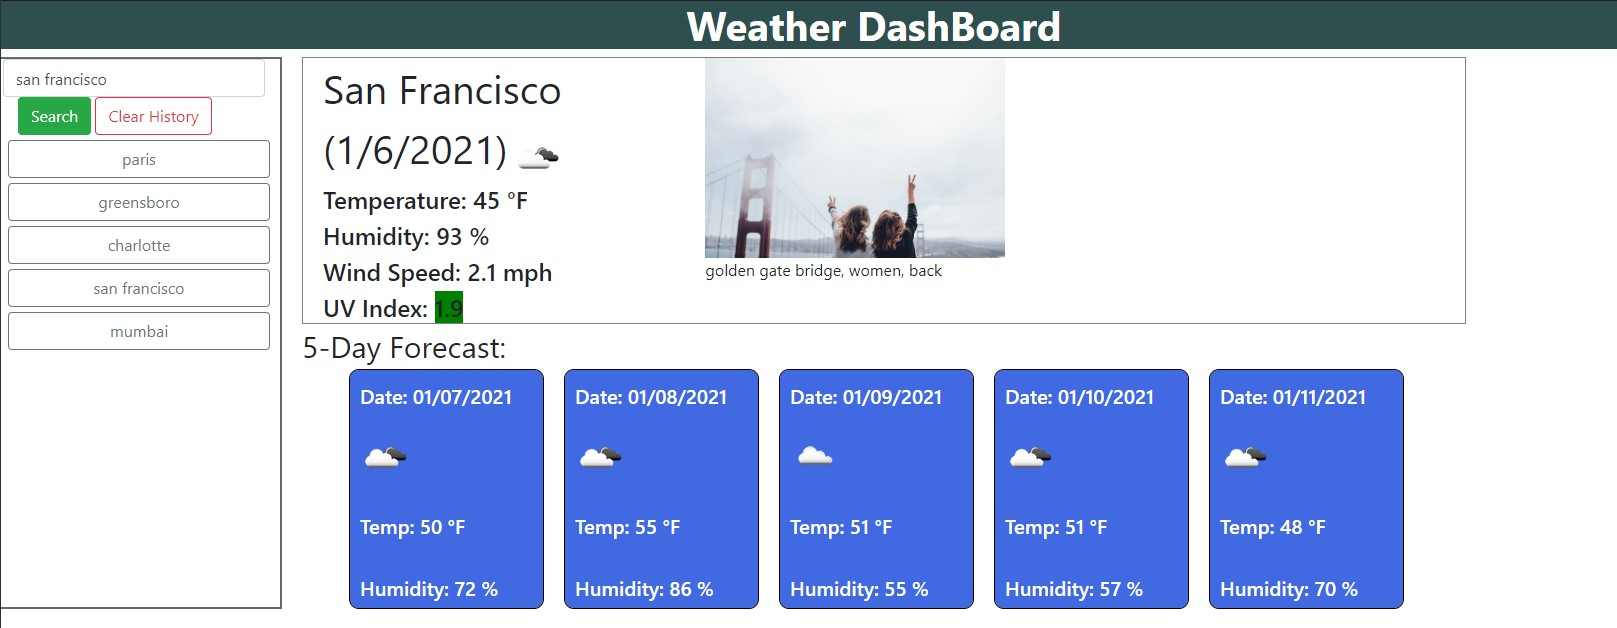
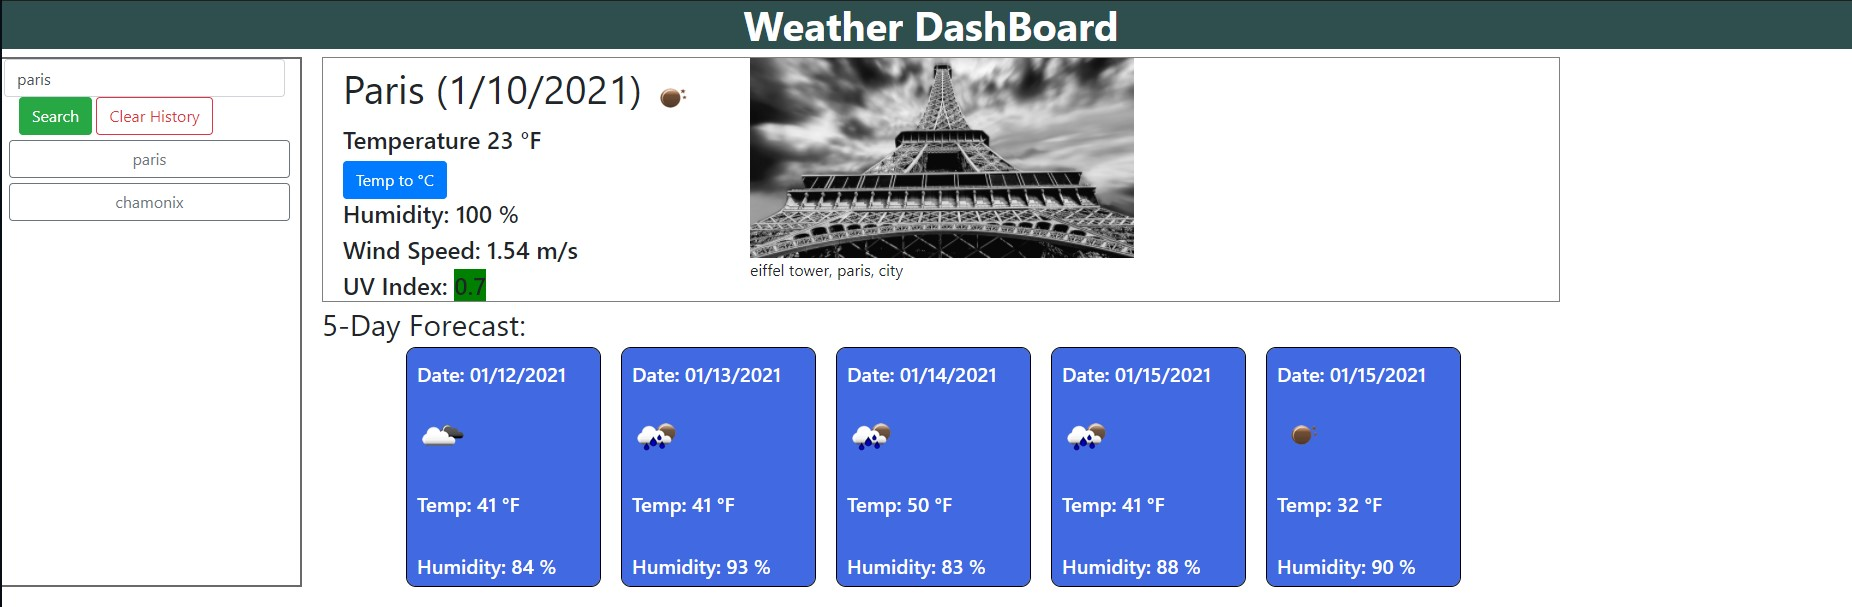
adding Temperature conversion button

Changed region(s): [[0.0, 0.0, 1.0, 0.9786], [0.0, 0.9489, 0.1855, 0.9786]]

diff --git a/assets/script/script.js b/assets/script/script.js
@@ -37,6 +37,7 @@ $(document).ready(function() {
             }).then(function(reponse){
 
                 // calling function to update the current city weather
+                // console.log("current: "+reponse);
                 updateCurrent(reponse);
 
                 //get a random picture of the city
@@ -132,13 +133,55 @@ $(document).ready(function() {
     };
 
     function KtoF(Kdegre){
-        var tempC=Kdegre - 273;
+        var tempC=Kdegre - 273.15;
         var tempF=Math.floor(tempC * (9/5) + 32);
         return tempF;
     };
 
+    function FtoC(Fdegre){
+        return ((Fdegre - 32) * 5/9).toFixed(2);
+    };
+
+    function CtoF(Cdegre){
+        return ((Cdegre * 9/5) + 32).toFixed(2);
+    };
+
+    $("#btnTemp").click(function(){
+        var tempUnit=$("#btnTemp").attr("data-value");
+        var currTemp=$("#currentTemp").text().split(" ");
+        var fore1=$("#forecastTemp0").text().split(" ");
+        var fore2=$("#forecastTemp1").text().split(" ");
+        var fore3=$("#forecastTemp2").text().split(" ");
+        var fore4=$("#forecastTemp3").text().split(" ");
+        var fore5=$("#forecastTemp4").text().split(" ");
+
+        console.log("conversion: "+currTemp);
+
+        if (tempUnit==="F"){
+            var unit=" °C";
+            $("#currentTemp").text("Temperature "+FtoC(currTemp[1])+unit); 
+            $("#forecastTemp0").text("Temp: "+FtoC(fore1[1])+unit);
+            $("#forecastTemp1").text("Temp: "+FtoC(fore2[1])+unit);
+            $("#forecastTemp2").text("Temp: "+FtoC(fore3[1])+unit);
+            $("#forecastTemp3").text("Temp: "+FtoC(fore4[1])+unit);
+            $("#forecastTemp4").text("Temp: "+FtoC(fore5[1])+unit);
+            $("#btnTemp").attr("data-value","C");
+            $("#btnTemp").text("Temp to °F");
+        } else {
+            var unit=" °F";
+            $("#currentTemp").text("Temperature "+CtoF(currTemp[1])+unit); 
+            $("#forecastTemp0").text("Temp: "+CtoF(fore1[1])+unit);
+            $("#forecastTemp1").text("Temp: "+CtoF(fore2[1])+unit);
+            $("#forecastTemp2").text("Temp: "+CtoF(fore3[1])+unit);
+            $("#forecastTemp3").text("Temp: "+CtoF(fore4[1])+unit);
+            $("#forecastTemp4").text("Temp: "+CtoF(fore5[1])+unit);
+            $("#btnTemp").attr("data-value","F");
+            $("#btnTemp").text("Temp to °C");
+        };
+    });
+
     function updateCurrent(city){
-        // console.log(city);
+        // console.log("current: "+$(city));
         var d=new Date();
         var usDate=d.getMonth()+1+"/"+d.getDate()+"/"+d.getFullYear();
         $(".weather").attr("style","display: block;");
@@ -149,9 +192,11 @@ $(document).ready(function() {
         // var tempK=reponse.main.temp;
         // var tempC=tempK - 273;
         // var tempF=Math.floor(tempC * (9/5) + 32);
-        $("#currentTemp").text("Temperature: "+KtoF(city.main.temp)+" °F");
+        $("#currentTemp").text("Temperature: "+KtoF(city.main.temp).toFixed(2)+" °F");
+        $("#btnTemp").attr("data-value","F");
+        $("#btnTemp").text("Temp to °C");
         $("#currentHum").text("Humidity: "+city.main.humidity+" %");
-        $("#currentWind").text("Wind Speed: "+city.wind.speed+" mph");
+        $("#currentWind").text("Wind Speed: "+city.wind.speed+" m/s");
     };
 
     function updateForecast(future){
@@ -168,7 +213,8 @@ $(document).ready(function() {
             var iconURL="https://openweathermap.org/img/w/"+forecastArray[i].weather[0].icon+".png";
             // console.log(iconURL);
             var fIcon=$("<img>").attr("src",iconURL);
-            var fTemp=$("<h5>").text("Temp: "+KtoF(forecastArray[i].main.temp)+" °F");
+            var fTemp=$("<h5>").text("Temp: "+KtoF(forecastArray[i].main.temp).toFixed(2)+" °F");
+            fTemp.attr("id","forecastTemp"+i);
             var fHum=$("<h5>").text("Humidity: "+forecastArray[i].main.humidity+" %");
             var div=$("<div>");
             div.append(fDate, $("<p>"), fIcon, $("<p>"), fTemp, $("<p>"), fHum);

diff --git a/index.html b/index.html
@@ -30,6 +30,7 @@
                             <p id="currentCity"></p>
                             <img id="currentIcon" src="" alt="weather icon">
                             <h4 id="currentTemp"></h4>
+                            <button id="btnTemp" data-value="F" class="btn btn-md btn-primary" type="submit">Temp to °C</button>
                             <h4 id="currentHum"></h4>
                             <h4 id="currentWind"></h4>
                             <h4 id="currentUV"></h4>

diff --git a/assets/style/style.css b/assets/style/style.css
@@ -98,3 +98,4 @@ h5 {
     width: auto;
     height: 200px;
 }
+

diff --git a/README.md b/README.md
@@ -12,7 +12,9 @@
     - [addHistory(city)](#addhistory(city))
     - [displayHistory()](#displayhistory())
     - [getPicture(city)](#getpicture(city))
-- [Room For Improvements](#room-for-improvements())
+    - [FtoC](#ktoc)
+    - [CtoF](#ctof)
+
 - [Credits](#credits)
 
 # Homework Presentation
@@ -41,7 +43,8 @@ THEN I am presented with the last searched city forecast
 
 # ScreenShot
 ![At Start](./assets/image/Starter.jpg)  
-![Full Page Data](./assets/image/webpageFull.jpg)
+![Full Page Data](./assets/image/webpageFull.jpg)  
+![Full Page Data](./assets/image/webpageFullCelsius.jpg)  
 
 # Assignment Aproach
 Giving all the acceptance criteria, I tried to have the webpage to look as much as possible to the sample given to us.  
@@ -81,9 +84,15 @@ Function that will read (get) the data saved in the `localStorage` and display t
 Function that take one parameter. That parameter is the city of which the function will get a picture related to the city.  
 The picture will be fetch by the call to the Pixabay API. The return can be up to 25 differents picture, the function will randomly select one to be displayed on the page, next to the current weather data.
 
-# Room for Improvements
-- 2 more `button` can be added to the tool to do a Temperature (to Celsius) and length (to metric) conversion.
+### FtoC(degre)
+convert a fahrenheit temperature to celcius
+
+### CtoF(degre)
+convert a celsius temperature to fahrenheit
 
 # Credits
 [OpenWeatherMap API](https://openweathermap.org)  
-[Pixabay API](https://pixabay.com)
+[Pixabay API](https://pixabay.com)  
+[BootStrap](https://getbootstrap.com)  
+[JQuery](https://jquery.com)  
+[Font Awesome](https://fontawesome.com)
